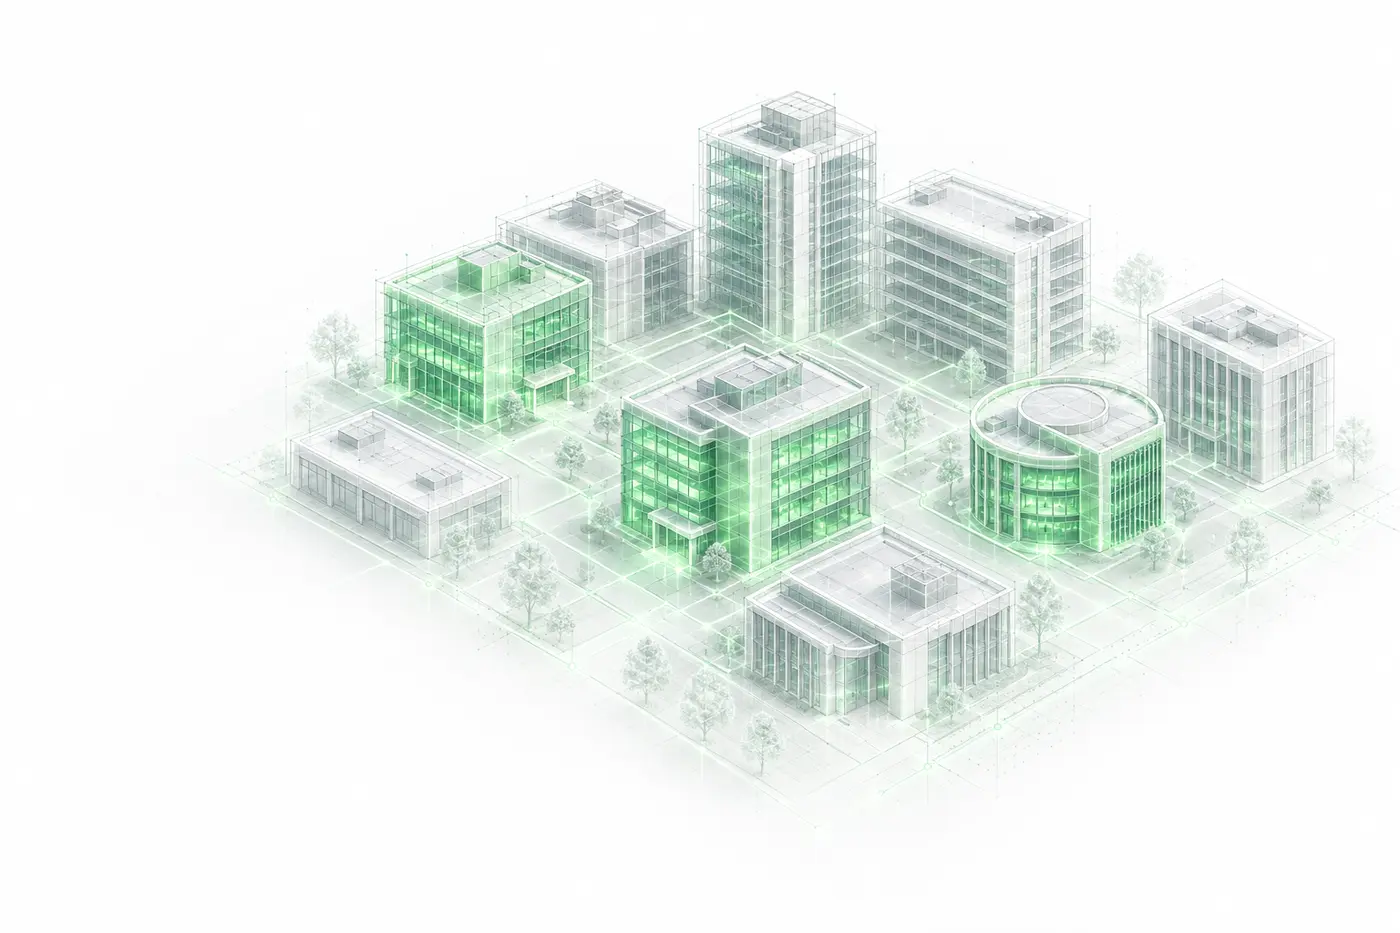
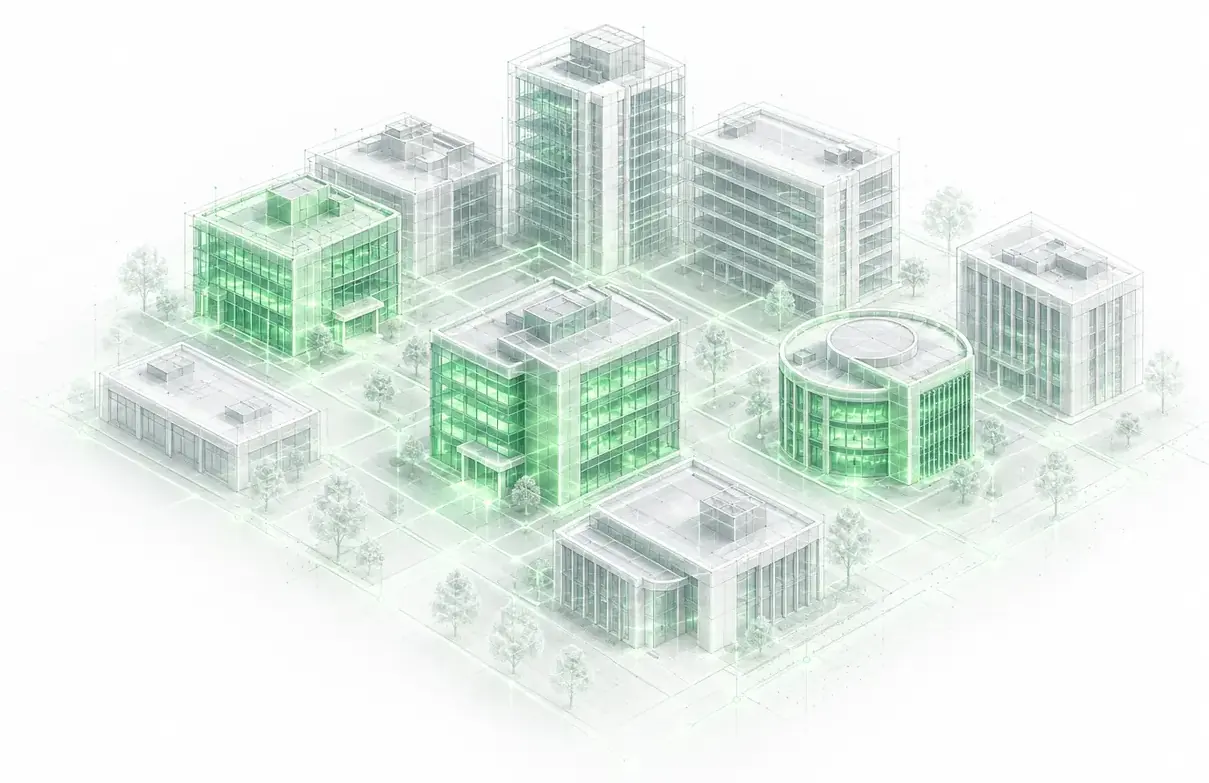
Energy Gap Analysis: colores del sistema, imagen y animaciones
Tres fallos que vio Erick, los tres medidos contra la home.

EL ACENTO DEL HERO

Puse --c-verde-marca (#39B54A) y la home usa --c-verde-hover (#026F00)
para texto en verde. No es un matiz: el de marca da 2,66:1 sobre blanco y
no llega al minimo de 4,5 de WCAG. El propio token lo advierte.

Auditados ademas TODOS los colores que pinta la pagina contra los de la
home: de 92 distintos, el unico que la EGA usa y la home no en pantalla
es un rgba de blanco que si esta en su CSS, 7 veces. Ninguno inventado.
De paso, cinco opacidades que me habia sacado de la manga --.64, .76,
.78, .88, .16-- pasan a la escala que ya tiene la home.

LA IMAGEN

Se veia pequena porque el archivo traia 215 px de blanco a la izquierda y
un centenar arriba y abajo: el dibujo era el 84% del ancho. Recortado, y
el hero pasa a dos columnas iguales como la home --que reparte 568 y
568-- en vez del 1fr/.92fr que habia puesto. De 560 a 584 px de
ilustracion, y el archivo pesa menos que antes: 60 KB frente a 64.

LAS ANIMACIONES DE ENTRADA

No habia ninguna: la pagina cargaba 2 de los 23 scripts de la home, y el
que anima --d2.js, que recoge los .d2-entra-- no estaba. Sin el tampoco
funcionaban el FAQ, el menu movil ni la calculadora en vivo. Ahora carga
los diez que hacen falta; quedan fuera los del editor, el selector de
version y los mandos de prueba.

Comprobado que las tres secciones nuevas entran de verdad: opacidad 0
antes de llegar y 1 al aparecer.
[…]

Changed region(s): [[0.0612, 0.0307, 0.9487, 0.9195]]

diff --git a/css/d2-ega.css b/css/d2-ega.css
@@ -41,7 +41,9 @@
 
 .d2 .d2-ega-hero__inner {
   display: grid;
-  grid-template-columns: 1fr .92fr;
+  /* Dos columnas iguales, como la home: alli el hero reparte 568 y 568.
+     Con 1fr/.92fr la ilustracion salia mas pequena de lo que le toca. */
+  grid-template-columns: minmax(0, 1fr) minmax(0, 1fr);
   align-items: center;
   gap: 56px;
   padding-block: 76px 84px;
@@ -74,8 +76,11 @@
   color: var(--c-texto, #333333);
 }
 
-/* El verde cae en "energy audit.", que es donde el titular hace pie. */
-.d2 .d2-ega-hero__titulo span { color: var(--c-verde-marca, #39B54A); }
+/* El verde cae en "energy audit.", que es donde el titular hace pie.
+
+   Va el --c-verde-hover, que es el que usa la home para texto en verde:
+   el de marca da 2,66:1 sobre blanco y no llega al minimo de 4,5. */
+.d2 .d2-ega-hero__titulo span { color: var(--c-verde-hover, #026F00); }
 
 .d2 .d2-ega-hero__lead {
   margin: 0 0 30px;
@@ -330,7 +335,7 @@
 }
 
 .d2 .d2-ega-tarj--si .d2-ega-tarj__eti { color: var(--c-verde-hover, #026F00); }
-.d2 .d2-ega-tarj--si li { border-color: rgba(2, 111, 0, .16); }
+.d2 .d2-ega-tarj--si li { border-color: var(--c-borde, #E4E4E4); }
 
 .d2 .d2-ega-tarj--si li::before {
   content: "\2713";
@@ -365,7 +370,7 @@
 
 .d2 .d2-ega-fondos .eyebrow { color: var(--c-verde-marca, #39B54A); }
 .d2 .d2-ega-fondos__titulo  { color: var(--c-blanco, #FFFFFF); }
-.d2 .d2-ega-fondos__lead    { color: rgba(255, 255, 255, .78); }
+.d2 .d2-ega-fondos__lead    { color: rgba(255, 255, 255, .82); }
 
 .d2 .d2-ega-fondos__lista {
   display: grid;
@@ -408,7 +413,7 @@
   margin: 0 0 20px;
   font-size: 15px;
   line-height: 1.6;
-  color: rgba(255, 255, 255, .76);
+  color: rgba(255, 255, 255, .74);
 }
 
 /* El enlace, abajo del todo: con textos de distinto largo, sin esto las
@@ -431,10 +436,10 @@
   max-width: 76ch;
   font-size: 14px;
   line-height: 1.65;
-  color: rgba(255, 255, 255, .64);
+  color: rgba(255, 255, 255, .62);
 }
 
-.d2 .d2-ega-fondos__nota strong { color: rgba(255, 255, 255, .88); }
+.d2 .d2-ega-fondos__nota strong { color: rgba(255, 255, 255, .82); }
 
 
 /* ==========================================================================
